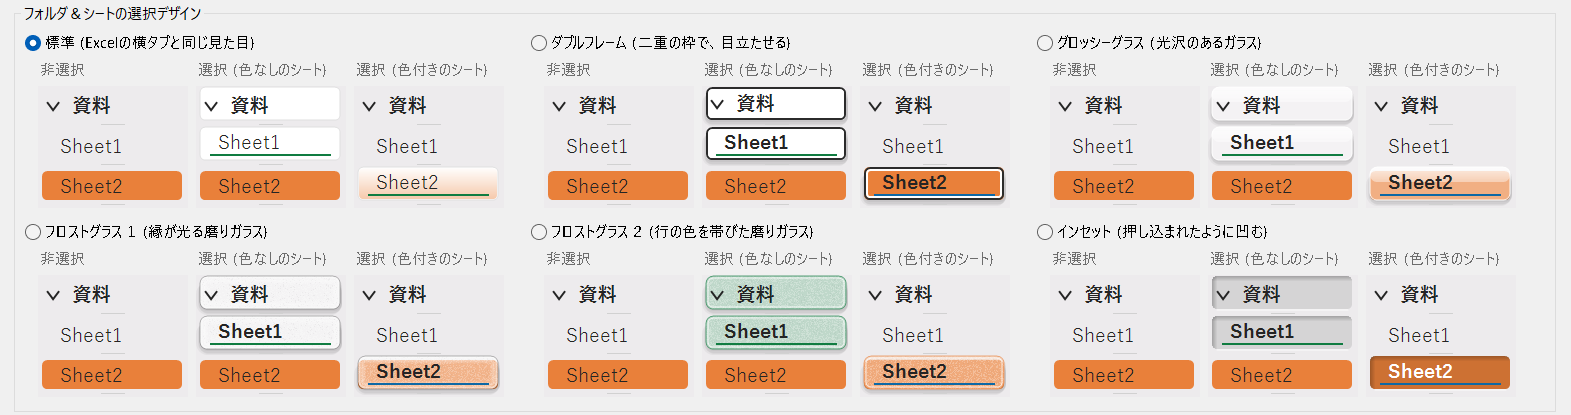
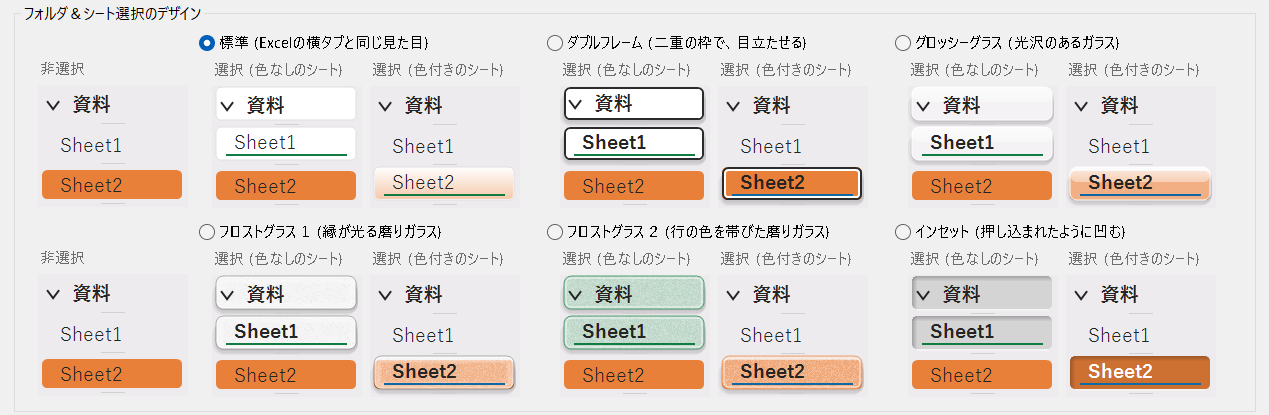
設定画面: 「フォルダ＆シート選択のデザイン」に名称変更し、非選択サンプルを各段の左端に1つだけ置く

diff --git a/VerticalSheetTabs/SettingsForm.cs b/VerticalSheetTabs/SettingsForm.cs
@@ -212,11 +212,11 @@ namespace VerticalSheetTabs
                 : SystemColors.Control;
         }
 
-        // The look of selected folders and sheets: the six types in three columns and two rows, each with samples (not selected, a folder and a plain sheet selected, a colored
-        // sheet selected) drawn by the tab strip itself.
+        // The look of selected folders and sheets: the six types in three columns and two rows. Each row starts with one "not selected" sample (the same for every type); each type
+        // has two samples (a folder and a plain sheet selected, a colored sheet selected), all drawn by the tab strip itself.
         private GroupBox CreateStyleGroup()
         {
-            var group = new GroupBox { Text = "フォルダ＆シートの選択デザイン", Font = SystemFonts.MessageBoxFont, AutoSize = false, Padding = new Padding(8, 4, 8, 6) };
+            var group = new GroupBox { Text = "フォルダ＆シート選択のデザイン", Font = SystemFonts.MessageBoxFont, AutoSize = false, Padding = new Padding(8, 4, 8, 6) };
             _styleStandard.Text = "標準 (Excelの横タブと同じ見た目)";
             _styleDouble.Text = "ダブルフレーム (二重の枠で、目立たせる)";
             _styleGlossy.Text = "グロッシーグラス (光沢のあるガラス)";
@@ -225,23 +225,51 @@ namespace VerticalSheetTabs
             _styleInset.Text = "インセット (押し込まれたように凹む)";
             var panel = new TableLayoutPanel
             {
-                ColumnCount = 3,
+                ColumnCount = 4,
                 RowCount = 2,
                 AutoSize = true,
                 AutoSizeMode = AutoSizeMode.GrowAndShrink,
                 Margin = Padding.Empty
             };
-            panel.Controls.Add(CreateStyleBlock(_styleStandard, SelectStyle.Standard), 0, 0);
-            panel.Controls.Add(CreateStyleBlock(_styleDouble, SelectStyle.DoubleFrame), 1, 0);
-            panel.Controls.Add(CreateStyleBlock(_styleGlossy, SelectStyle.GlossyGlass), 2, 0);
-            panel.Controls.Add(CreateStyleBlock(_styleFrosted, SelectStyle.FrostedGlass), 0, 1);
-            panel.Controls.Add(CreateStyleBlock(_styleFrosted2, SelectStyle.FrostedGlass2), 1, 1);
-            panel.Controls.Add(CreateStyleBlock(_styleInset, SelectStyle.Inset), 2, 1);
+            panel.Controls.Add(CreateNoneBlock(), 0, 0);
+            panel.Controls.Add(CreateStyleBlock(_styleStandard, SelectStyle.Standard), 1, 0);
+            panel.Controls.Add(CreateStyleBlock(_styleDouble, SelectStyle.DoubleFrame), 2, 0);
+            panel.Controls.Add(CreateStyleBlock(_styleGlossy, SelectStyle.GlossyGlass), 3, 0);
+            panel.Controls.Add(CreateNoneBlock(), 0, 1);
+            panel.Controls.Add(CreateStyleBlock(_styleFrosted, SelectStyle.FrostedGlass), 1, 1);
+            panel.Controls.Add(CreateStyleBlock(_styleFrosted2, SelectStyle.FrostedGlass2), 2, 1);
+            panel.Controls.Add(CreateStyleBlock(_styleInset, SelectStyle.Inset), 3, 1);
             group.Controls.Add(panel);
             panel.Location = group.DisplayRectangle.Location;
             Size content = panel.PreferredSize;
             group.Size = new Size(content.Width + group.Padding.Horizontal + 8, panel.Top + content.Height + group.Padding.Bottom + 2);
             return group;
+        }
+
+        // The "not selected" sample shown once at the start of each row; it looks the same for every type. It is aligned with the samples of the type blocks to its right
+        // (an invisible label stands in for the radio button above them).
+        private FlowLayoutPanel CreateNoneBlock()
+        {
+            var block = new FlowLayoutPanel
+            {
+                FlowDirection = FlowDirection.TopDown,
+                AutoSize = true,
+                AutoSizeMode = AutoSizeMode.GrowAndShrink,
+                WrapContents = false,
+                Margin = new Padding(0, 0, 8, 8)
+            };
+            block.Controls.Add(new Label { Text = " ", AutoSize = true, Height = _styleStandard.PreferredSize.Height, Margin = _styleStandard.Margin });
+            var strip = new TabStrip();
+            strip.SetSample(SelectStyle.Standard, "none", ActiveMarker);
+            _samples.Add(strip);
+            strip.Size = strip.SampleSize(120);
+            strip.Margin = new Padding(0);
+            var caption = new Label { Text = "非選択", AutoSize = true, ForeColor = SystemColors.GrayText, Margin = new Padding(0, 0, 0, 2) };
+            var one = new FlowLayoutPanel { FlowDirection = FlowDirection.TopDown, AutoSize = true, AutoSizeMode = AutoSizeMode.GrowAndShrink, WrapContents = false, Margin = new Padding(16, 0, 0, 0) };
+            one.Controls.Add(caption);
+            one.Controls.Add(strip);
+            block.Controls.Add(one);
+            return block;
         }
 
         private FlowLayoutPanel CreateStyleBlock(RadioButton radio, SelectStyle style)
@@ -266,7 +294,6 @@ namespace VerticalSheetTabs
             };
             string[][] cells =
             {
-                new[] { "非選択", "none" },
                 new[] { "選択 (色なしのシート)", "plain" },
                 new[] { "選択 (色付きのシート)", "colored" }
             };

diff --git a/README.md b/README.md
@@ -51,7 +51,7 @@
 | **表示モード** | 横タブだけ / 縦タブだけ / 両方 ([1.3](#13-表示モードで画面がこう変わる)) |
 | **縦タブの位置** | 画面の左 / 右 |
 | **アクティブシートのマーカー表示** | 今開いているシートの印。下線 / 三角 / 両端バー / なし ([1.5](#15-選択中のフォルダとシートの見た目を選ぶ)) |
-| **フォルダ＆シートの選択デザイン** | 選択中のフォルダとシートの見た目を、6種類から。**サンプルが、その場で見える** ([1.5](#15-選択中のフォルダとシートの見た目を選ぶ)) |
+| **フォルダ＆シート選択のデザイン** | 選択中のフォルダとシートの見た目を、6種類から。**サンプルが、その場で見える** ([1.5](#15-選択中のフォルダとシートの見た目を選ぶ)) |
 | **フォルダを囲む点線** | 開いたフォルダを囲む点線の、表示 / 非表示と、色の濃さ (9段階) |
 | **シート名のルール** | 「フォルダ名 \| シート名」の名前で、フォルダを自動で作る ([1.6](#16-シート名だけでフォルダを共有する-シート名のルール)) |
 
@@ -153,7 +153,7 @@
 | 複数選択 | Ctrl+クリック、Shift+クリックで、グループ選択。グループのまま、移動、コピー、色の変更、非表示、削除 |
 | フォルダ | シートを1段のフォルダに分類 / 開閉 / 名前、色 / ドラッグで移動、コピー / フォルダごとの一括操作。並びは、横タブにも反映 |
 | シート名のルール | 横タブのシート名「A &#124; B」を、縦タブでは、フォルダ A の中のシート B として表示 (使う/使わないを選択) |
-| 設定画面 | 表示モード、縦タブの位置、フォルダ＆シートの選択デザイン、シート名のルール、フォルダを囲む点線 (表示/非表示、色の濃さ) |
+| 設定画面 | 表示モード、縦タブの位置、フォルダ＆シート選択のデザイン、シート名のルール、フォルダを囲む点線 (表示/非表示、色の濃さ) |
 | 設定の保存 | ブックごとに保存して、次に開いたときに復元。ブックごとに独立 |
 
 横タブのシートの右クリックメニューにも、先頭に「タブ表示の設定」が加わります。
@@ -377,7 +377,7 @@ flowchart LR
 | 表示モード | 横タブのみ / 縦タブのみ / 両方 | 横タブ、縦タブの表示を選ぶ |
 | 縦タブの位置 | 左 / 右 | 縦タブのペインを置く側 (「横タブのみ」のときは選べません) |
 | アクティブシートのマーカー表示 | 下線マーカー / 三角マーカー / 両端バーマーカー / マーカーなし (横に並ぶ) | アクティブなシートの印。選んだマーカーは、下の選択デザインのサンプルにも、すぐ反映される。初期値は、下線マーカー |
-| フォルダ＆シートの選択デザイン | 標準 / ダブルフレーム / グロッシーグラス / フロストグラス１ / フロストグラス２ / インセット | 選択中のフォルダとシートの見た目。6つの選択肢が、横3 x 縦2 に並び、それぞれの、非選択と選択のサンプルが出る (サンプルをクリックしても選べる)。初期値は、標準 |
+| フォルダ＆シート選択のデザイン | 標準 / ダブルフレーム / グロッシーグラス / フロストグラス１ / フロストグラス２ / インセット | 選択中のフォルダとシートの見た目。6つの選択肢が、横3 x 縦2 に並ぶ。各段の左端に、非選択のサンプルが1つ、各選択肢には、選択 (色なしのシート) と選択 (色付きのシート) のサンプルが出る (サンプルをクリックしても選べる)。初期値は、標準 |
 | シート名のルール | 使う | [7章](#7-シート名のルール) |
 | フォルダを囲む点線 | 点線を表示する | 開いたフォルダの点線の ON / OFF |
 | | 色 (1から9) | 点線の色。右にいくほど、縦タブの背景から離れた、はっきりした色 |

diff --git a/Agents.md b/Agents.md
@@ -46,7 +46,7 @@
 | 8 | Step0 から Step5 の開発メモ |
 | 9 | Step6 見た目の再現 (採寸結果、テーマ、DPI) |
 | 10、11 | Step7 仕上げ、完了状況と残課題 |
-| 12 | Step8 フォルダ機能の設計と、その後の改善、不具合の修正、リリースの記録 (12.1 から 12.127) |
+| 12 | Step8 フォルダ機能の設計と、その後の改善、不具合の修正、リリースの記録 (12.1 から 12.129) |
 | 13 | リリースの定型作業 |
 
 ## 1. 目的
@@ -1918,5 +1918,12 @@ gitGraph
 ### 12.128 インストーラの更新 (バージョン1.1.48.0)
 
 - 12.127 (README.md を、画面の Before / After で見せる構成に書き直す。画像を `docs\images` に追加) を含めて、バージョンを 1.1.48.0 に上げ、ClickOnce のインストーラを作り直した (`develop` と `master` に反映し、`v1.1.48` のタグを付けた。配布用zip: `配布用zip\VerticalSheetTabs_v1.1.48.zip`。zip には `docs\images` の画像も入る)。アドイン本体の変更は無い (版数のみ)
-- 成果物: `VerticalSheetTabsin\Releasepp.publish\` (`setup.exe`、`VerticalSheetTabs.vsto`、`Application Files\VerticalSheetTabs_1_1_48_0\`)。インストールの実機確認は、未実施
+- 成果物: `VerticalSheetTabs\bin\Release\app.publish\` (`setup.exe`、`VerticalSheetTabs.vsto`、`Application Files\VerticalSheetTabs_1_1_48_0\`)。インストールの実機確認は、未実施
+
+### 12.129 変更: 「フォルダ＆シート選択のデザイン」に名称変更、非選択のサンプルを、各段の左端に1つだけ置く
+
+- ユーザーの要望により、設定画面のグループ名「フォルダ＆シートの選択デザイン」を、「フォルダ＆シート選択のデザイン」に変えた (README、この文書の、設定画面を指す表記も合わせた。過去の記録の本文は、経緯として、そのまま)
+- 選択肢ごとの「非選択」のサンプルは、どの選択肢でも同じ絵のため、上段と下段の左端に、1つずつ (同じ絵) 置くだけにした (`SettingsForm.CreateNoneBlock`)。各選択肢には、「選択 (色なしのシート)」と「選択 (色付きのシート)」の2つのサンプルだけが出る (`CreateStyleBlock`)。選択肢の配置は、横3 x 縦2 のまま (6つ)
+- 設定画面の横幅は、約1570px から約1290px (拡大率125%) に狭まった。空いた幅に、各段の右端へ、もう1つずつ、選択肢を足せる (上段と下段で、あわせて2つ。追加する選択肢は、後日、相談する)
+- 実機で確認 (拡大率125%): 左端の非選択のサンプルが、右の選択肢のサンプルと、同じ高さにそろう。選択肢のラジオボタン、サンプルのクリックでの選択は、変わらない。README の設定画面の画像 (`settings_full.png`、`settings_design.png`) を、撮り直した
 
